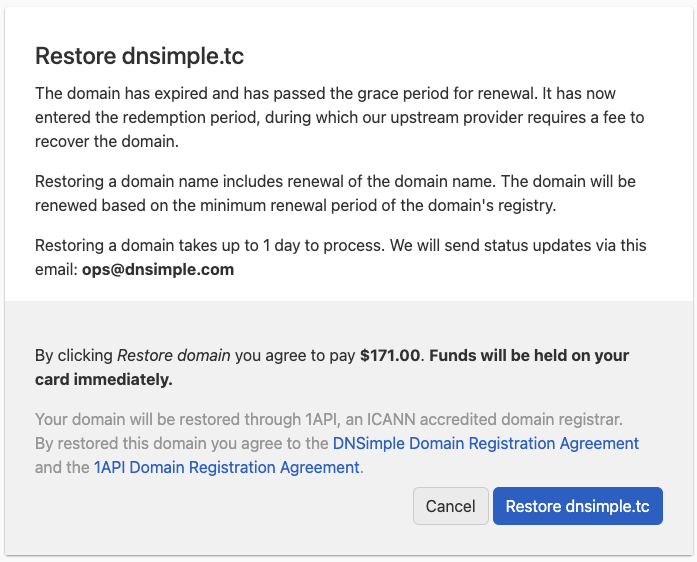
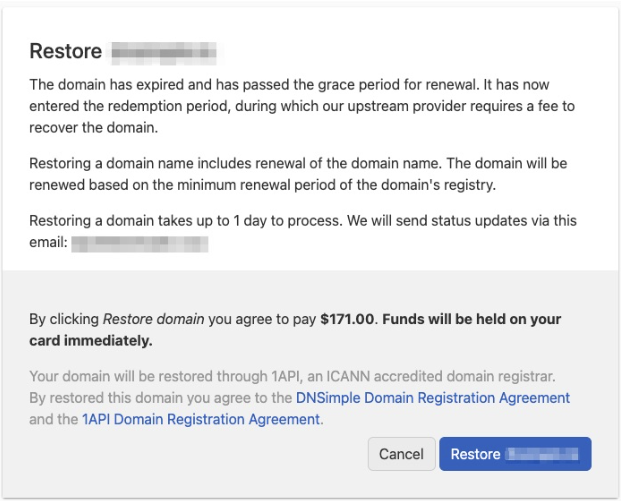
Add edits to article

diff --git a/content/articles/restoring-domain.md b/content/articles/restoring-domain.md
@@ -7,11 +7,12 @@ categories:
 
 # Restoring a Domain
 
-To reactivate your domain that has entered the [redemption period](/articles/what-happens-when-domain-expires/#redemption-period), it has to be restored. After completion, your domain's registration will be extended by the minimum renewal period (usually 1 year).
+To reactivate your domain that has entered the [redemption period](/articles/what-happens-when-domain-expires/#redemption-period), it has to be restored. This process takes up to a day to complete. We will send updates to your [account email](https://support.dnsimple.com/articles/changing-email/).
+
+Upon completion, your domain's registration will be automatically extended by the registry's minimum renewal period (usually 1 year).
 
 <warning>
-The registrar applies a mandatory restore fee.
-The final price of the restore will be the <strong>restore fee plus the standard renewal fee</strong>.
+The registrar applies a mandatory restore fee. The final price of the restore will be the restore fee plus the domain's renewal fee.
 </warning>
 
 ##### To restore a domain
@@ -31,3 +32,5 @@ The total restore price will be held on your card immediately.
 Your card will be charged once the restoration completes.
 If the restoration fails, funds will be released.
 </info>
+
+If you have any questions about the domain restoration process, [get in touch](https://dnsimple.com/feedback), and we'll be happy to help.
